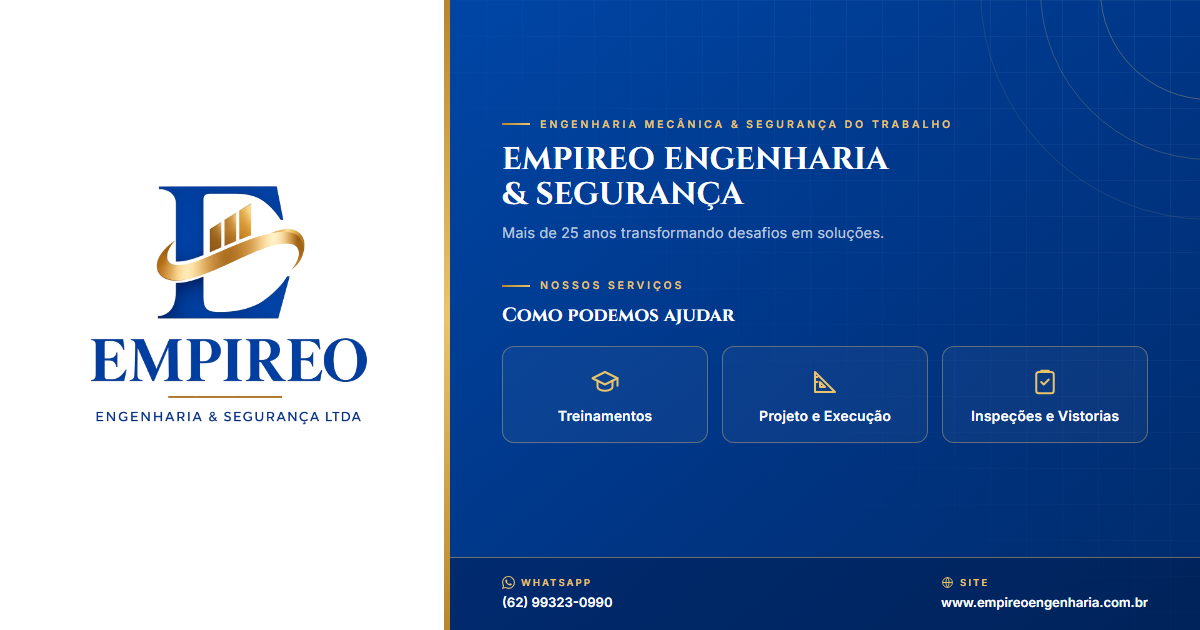
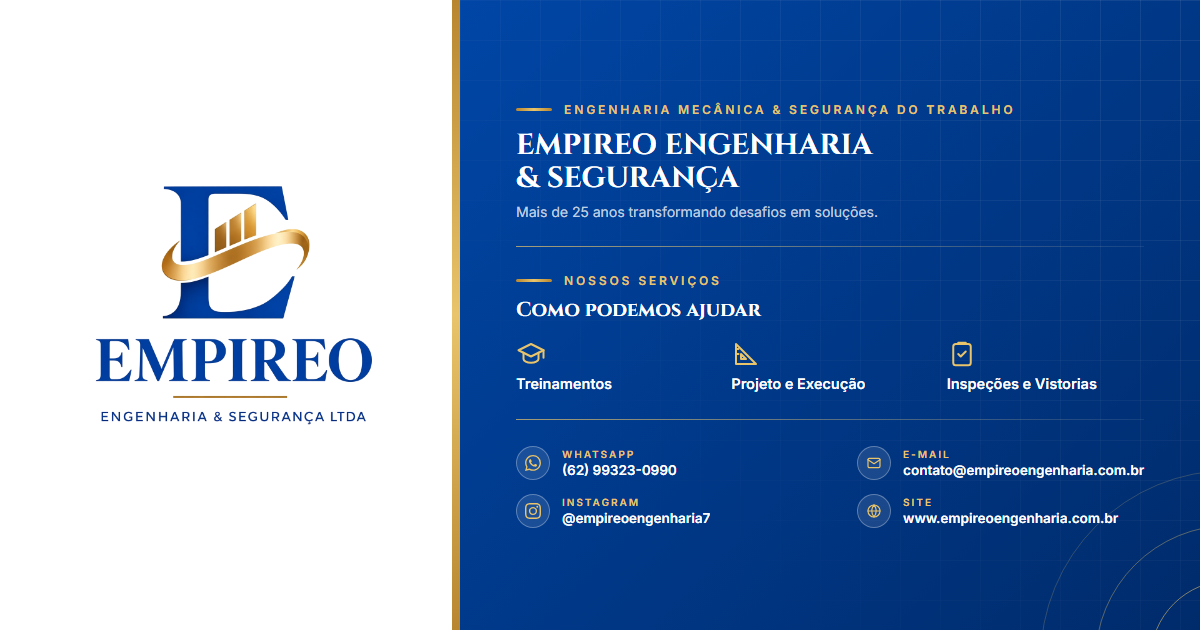
versao final site

diff --git a/components/DadosEstruturados.tsx b/components/DadosEstruturados.tsx
@@ -7,7 +7,6 @@ import { site, urlSite } from "@/lib/site";
 
 // Dados estruturados (Schema.org, JSON-LD): dizem ao Google que tipo de empresa é,
 // onde fica, como contatar e quais serviços oferece (ajuda na busca local).
-// TODO: incluir "email" quando houver o e-mail oficial (o atual é provisório).
 export default function DadosEstruturados() {
   const dados = {
     "@context": "https://schema.org",
@@ -20,6 +19,7 @@ export default function DadosEstruturados() {
     logo: `${urlSite}logo.jpg`,
     image: `${urlSite}logo.jpg`,
     telephone: `+${contato.whatsapp}`,
+    email: contato.email,
     address: {
       "@type": "PostalAddress",
       streetAddress: "Rua 72, nº 223, Qd. C16, Lt. 12/15, Ed. QS Tower, Sala 1507, Jardim Goiás",

diff --git a/lib/contato.ts b/lib/contato.ts
@@ -1,10 +1,10 @@
 // Dados de contato da Empireo, usados no Contato e nos cards de detalhe de Serviços.
-// TODO: o e-mail ainda é provisório (telefone/WhatsApp já são os reais).
+// Contatos oficiais da Empireo.
 // whatsapp: só dígitos, com DDI 55 + DDD (formato exigido pelo wa.me)
 export const contato = {
   whatsapp: "5562993230990",
   telefone: "(62) 99323-0990",
-  email: "contato@empireo.com.br",
+  email: "contato@empireoengenharia.com.br",
   // Perfil sem os parâmetros de rastreio do link de compartilhamento (utm_source, exln)
   instagram: "https://www.instagram.com/empireoengenharia7/",
   // Endereço escrito sempre igual (site, Google, cartões): consistência ajuda na busca local
